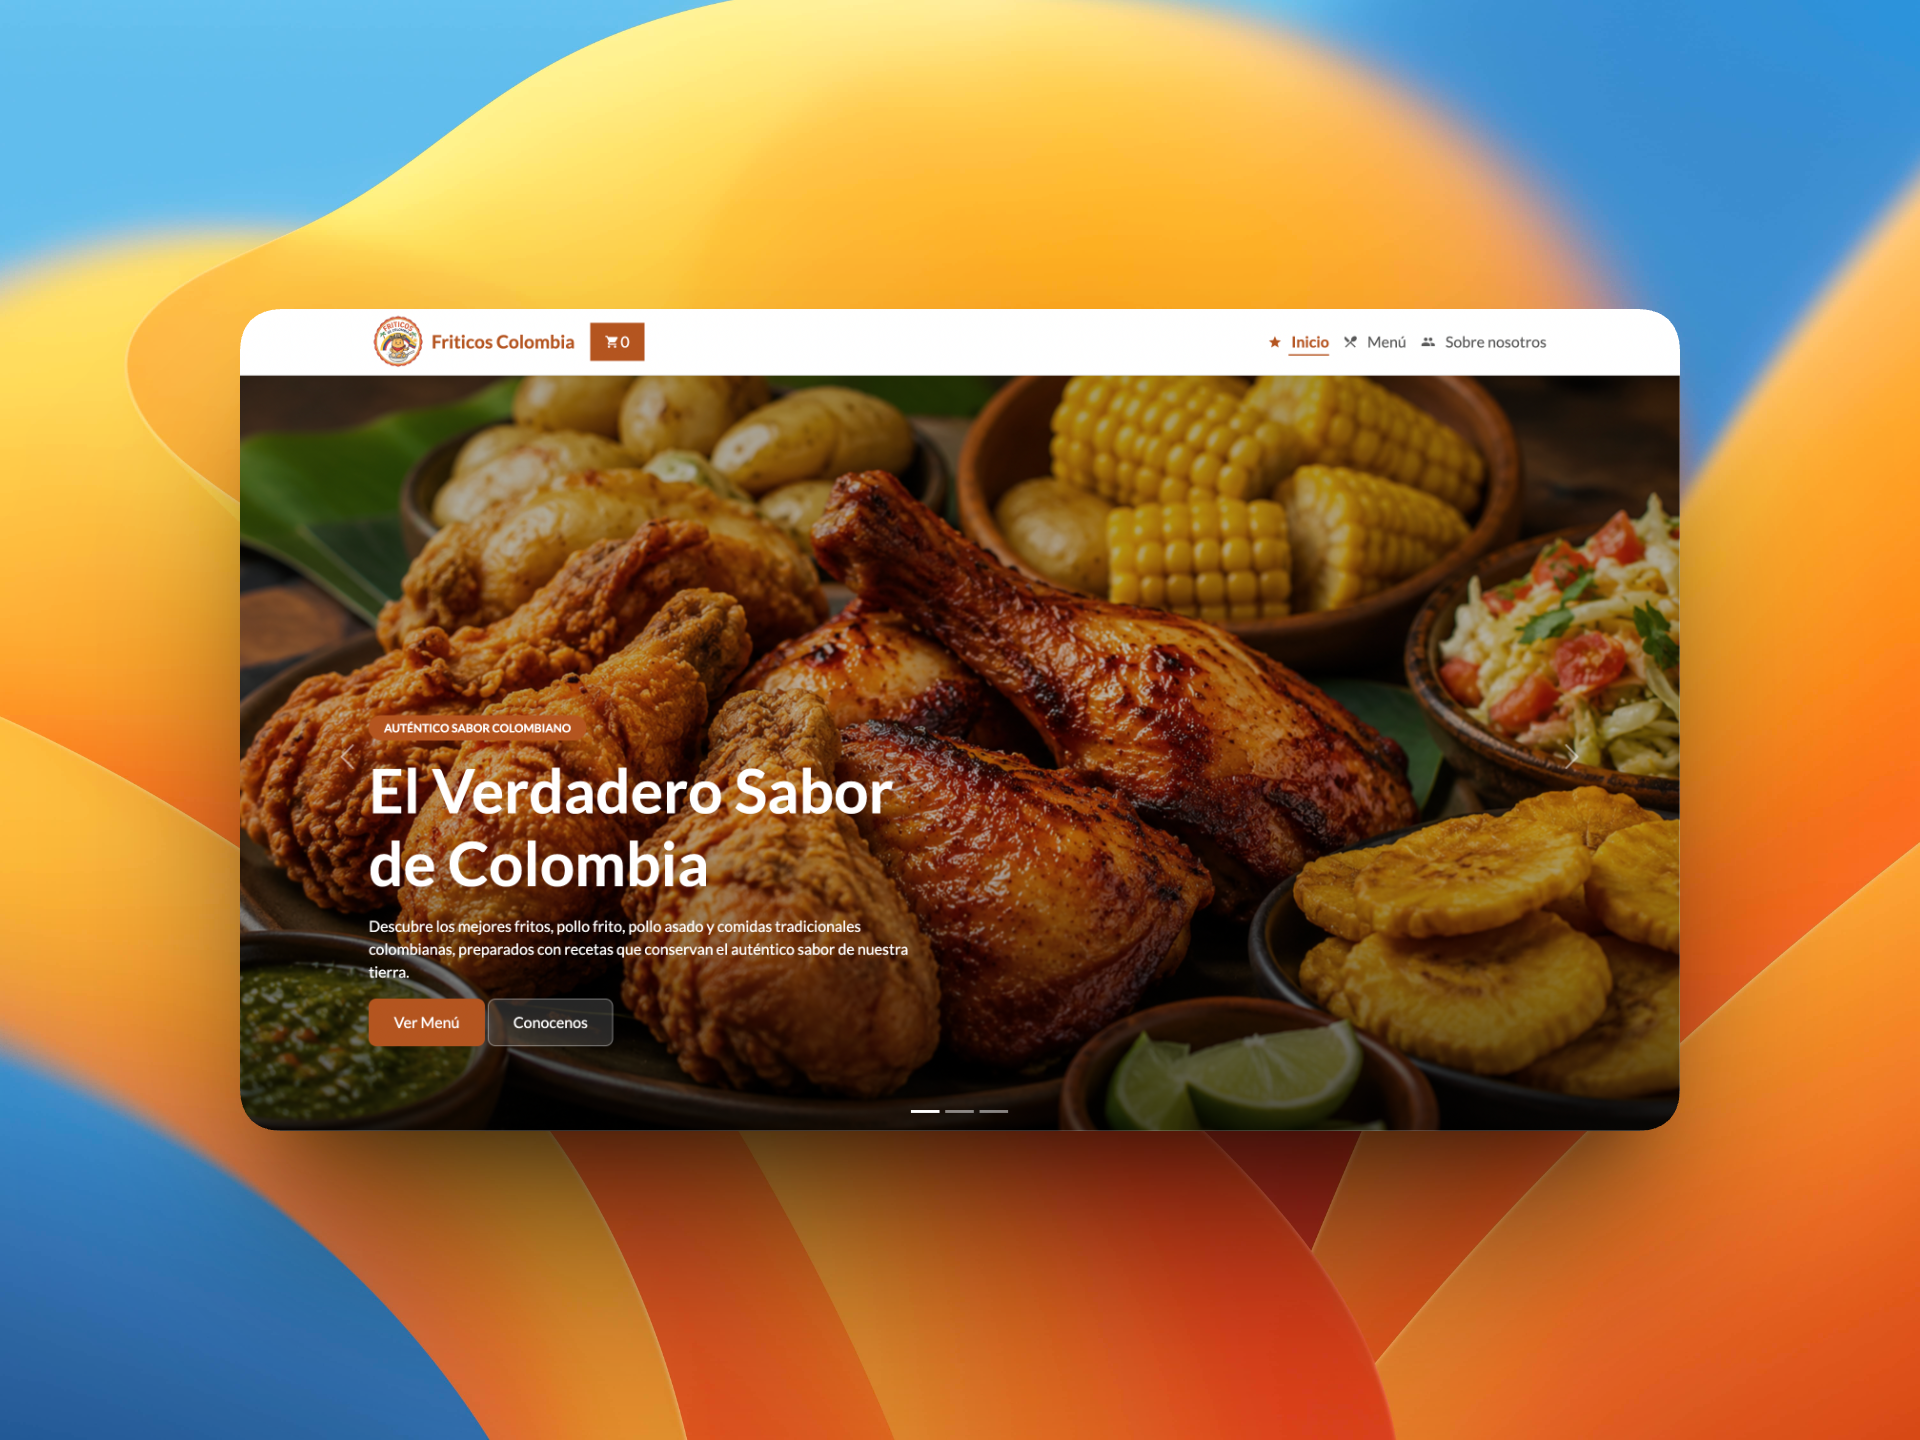
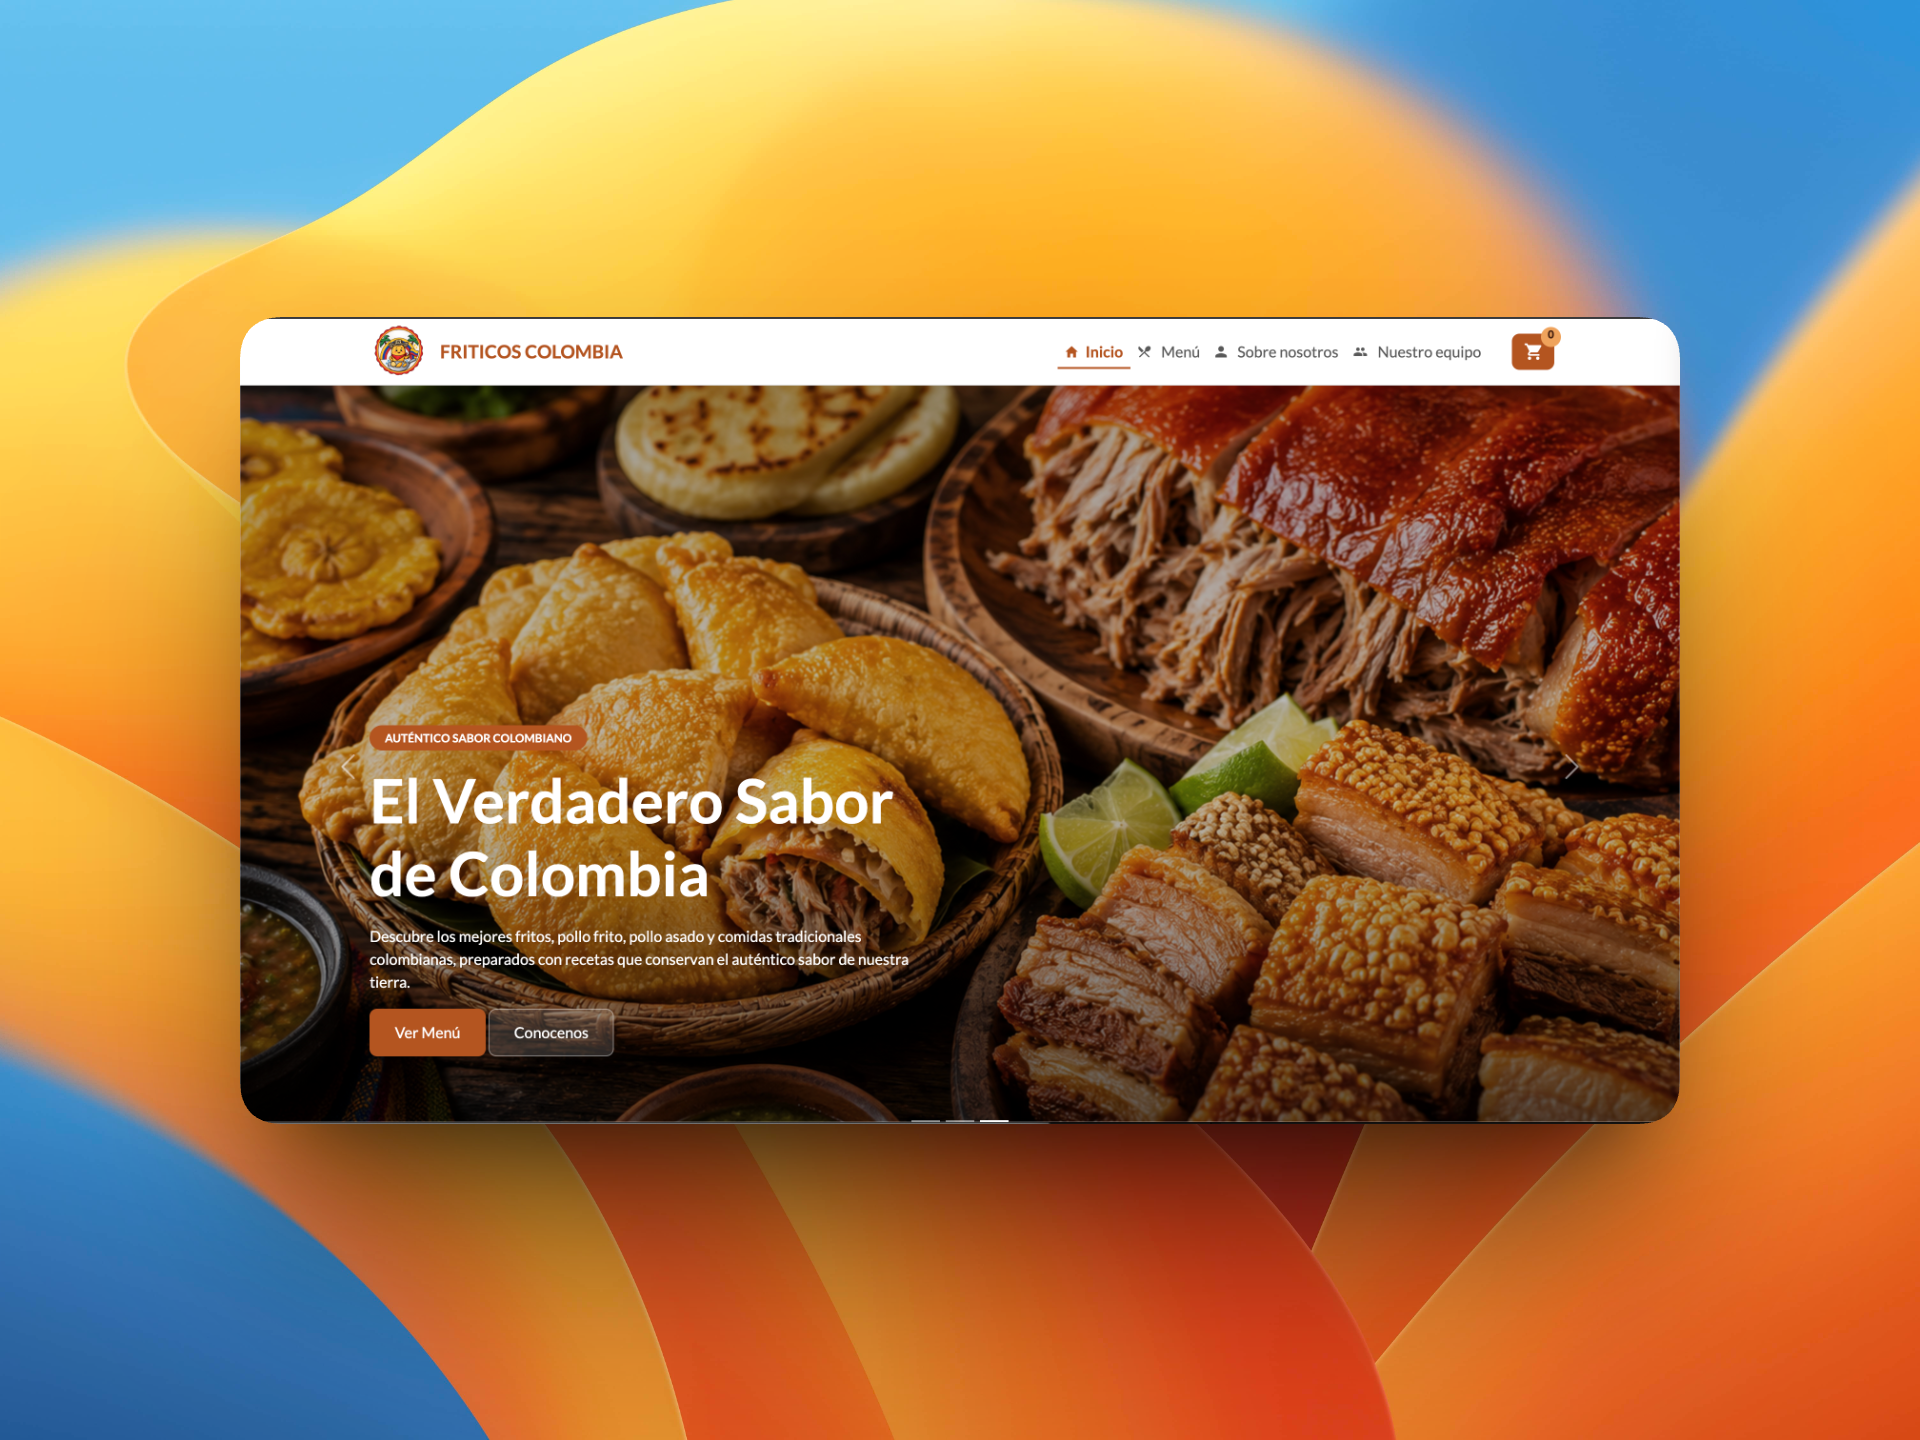
add enhancements

diff --git a/src/sections/About/About.tsx b/src/sections/About/About.tsx
@@ -1,0 +1,54 @@
+import { motion } from 'framer-motion'
+import { useTranslation } from 'react-i18next'
+import profileImage from '@/assets/img/profile.png'
+
+export const About = () => {
+  const { t } = useTranslation()
+
+  return (
+    <section
+      id='sobre-mi'
+      className='col-span-full rounded-lg py-15 dark:bg-red-900/40'
+    >
+      <motion.div
+        className='mx-auto grid max-w-7xl grid-cols-1 items-center gap-12 px-4 sm:px-6 lg:grid-cols-2 lg:gap-16 lg:px-8'
+        initial={{ opacity: 0, y: 24 }}
+        whileInView={{ opacity: 1, y: 0 }}
+        viewport={{ once: false, amount: 0.15 }}
+        transition={{ duration: 0.6, ease: [0.22, 1, 0.36, 1] }}
+      >
+        <div className='relative mx-auto w-full max-w-120 lg:mx-0 lg:-translate-x-2 lg:-rotate-2'>
+          <div className='absolute -inset-5 rounded-4xl bg-violet-400/20 blur-3xl dark:bg-violet-600/20' />
+          <div className='relative overflow-hidden rounded-4xl border border-violet-200 bg-violet-50 p-3 shadow-xl shadow-violet-200/40 dark:border-violet-400/20 dark:bg-violet-950/30 dark:shadow-violet-950/40'>
+            <div className='relative aspect-5/6 overflow-hidden rounded-3xl bg-violet-100 dark:bg-violet-950/50'>
+              <img
+                src={profileImage}
+                alt={t('Retrato de Angelica García')}
+                className='h-full w-full object-cover object-center saturate-90 transition duration-700 hover:scale-105 hover:saturate-110'
+              />
+              <div className='pointer-events-none absolute inset-0 bg-linear-to-tr from-violet-950/35 via-transparent to-white/20' />
+              <div className='pointer-events-none absolute inset-4 rounded-2xl border border-white/40' />
+            </div>
+            <span className='absolute bottom-7 left-7 rounded-md bg-slate-950/85 px-3 py-1.5 font-mono text-xs text-violet-200 backdrop-blur-sm'>
+              {'< about-me />'}
+            </span>
+          </div>
+        </div>
+
+        <div className='flex flex-col gap-5 text-left'>
+          <div className='flex items-center gap-3 font-mono text-xs uppercase tracking-[0.2em] text-violet-500'>
+            <span className='h-px w-10 bg-violet-500' />
+            <span>{t('Conóceme')}</span>
+          </div>
+          <h2 className='text-3xl font-bold text-slate-900 dark:text-slate-100 sm:text-4xl'>{t('Sobre mí')}</h2>
+          <p className='max-w-xl text-base leading-relaxed text-slate-600 dark:text-slate-300'>
+            {t('Mi acercamiento a la tecnología no fue amor a primera vista: en el colegio llegué a odiar la clase de informática, hasta que un cambio de profesor me hizo ver la lógica detrás de las herramientas y ahí nació mi interés. Entré a Análisis y Desarrollo de Sistemas en el SENA sin saber programar, y terminé enamorándome de los algoritmos al descubrir el impacto real que la tecnología tiene en la vida de las personas —desde oportunidades laborales hasta reconectar con seres queridos. Eso me llevó a estudiar Ingeniería de Sistemas y luego a especializarme en frontend en el bootcamp de Laboratoria, donde aprendí a trabajar en equipo de verdad junto a personas de Perú, Argentina, Chile y México.')}
+          </p>
+          <p className='max-w-xl text-base leading-relaxed text-slate-600 dark:text-slate-300'>
+            {t('Esa base me abrió las puertas a mi primera experiencia profesional, donde participé en la migración de una plataforma SaaS de JavaScript puro a React. Tras casi tres años de aprendizaje intenso, tomé una pausa para recargar energía, y con el deseo de seguir creciendo, tuve la oportunidad de ingresar al bootcamp fullstack de Generation, donde hoy profundizo en backend para consolidar mi perfil fullstack. Lo que más disfruto del desarrollo es resolver problemas, darle estructura y sentido a un problema, y sobre todo saber que esa solución termina siendo útil para alguien más.')}
+          </p>
+        </div>
+      </motion.div>
+    </section>
+  )
+}

diff --git a/src/sections/Projects/Projects.tsx b/src/sections/Projects/Projects.tsx
@@ -2,6 +2,7 @@ import { ProjectCard, type ProjectItem } from '@/sections/Projects/components/Pr
 import friticosColombiaImage from '@/assets/img/friticos-colombia.png'
 import youtubeCloneImage from '@/assets/img/youtube-clone.png'
 import inventarioPosImage from '@/assets/img/inventario-pos.png'
+import kairos from '@/assets/img/kairos.png'
 import reserveOneImage from '@/assets/img/reserve-one.png'
 import { motion } from 'framer-motion'
 import { useTranslation } from 'react-i18next'
@@ -12,17 +13,17 @@ export const Projects = () => {
   const projects: ProjectItem[] = [
     {
       title: 'Friticos Colombia',
-      description: t('Landing page desarrollada en 8 horas durante una hackathon, enfocada en conversión rápida y presentación de un negocio de comida típica colombiana.'),
+      description: t('Landing page desarrollada en 8 horas durante hackathon, enfocada en conversión rápida para negocio de comida típica colombiana.'),
       image: friticosColombiaImage,
       category: t('Hackathon'),
       tags: ['HTML', 'CSS', 'JavaScript', 'Bootstrap'],
       githubUrl: 'https://github.com/YessBlack/Hackaton1_FriticosColombia',
-      liveUrl: 'https://yessblack.github.io/Hackaton1_FriticosColombia/',
+      liveUrl: 'https://hackaton1-friticos-colombia.vercel.app/',
       featured: true
     },
     {
       title: 'YouTube Clone',
-      description: t('Recreación de la interfaz de YouTube enfocada en frontend, donde trabajé la estructura visual de la plataforma, la organización del diseño y la creación de una interfaz moderna y responsive.'),
+      description: t('Recreación de la interfaz de YouTube enfocada en frontend, trabajando la estructura visual, organización del diseño y una interfaz moderna y responsive.'),
       image: youtubeCloneImage,
       category: t('Clon / Práctica'),
       tags: ['HTML', 'CSS', 'JavaScript'],
@@ -39,7 +40,7 @@ export const Projects = () => {
     },
     {
       title: 'Reserve One',
-      description: t('Sistema de reserva de clases para el Club Deportivo Lan Hua, escuela de artes marciales chinas en Medellín especializada en Kung Fu tradicional (Mizong Luohan) y Wushu competitivo. Frontend en HTML, CSS y JavaScript, con backend en Java y Spring Boot.'),
+      description: t('Sistema de reservas para Club Lan Hua, escuela de artes marciales chinas en Medellín, cubriendo gestión de horarios, clases y usuarios.'),
       image: reserveOneImage,
       category: t('En desarrollo'),
       tags: ['HTML', 'CSS', 'JavaScript', 'Bootstrap', 'Java', 'Spring Boot'],
@@ -47,8 +48,8 @@ export const Projects = () => {
     },
     {
       title: 'Kairos App',
-      description: t('MVP de gestión de tareas con landing page, autenticación de usuarios, dashboard personal y configuración de perfil. Permite crear, organizar y eliminar tareas para llevar un seguimiento claro del día a día. Frontend en HTML, CSS y JavaScript, con backend en Java y Spring Boot.'),
-      image: inventarioPosImage,
+      description: t('MVP de gestión de tareas con landing page, autenticación, dashboard y perfil de usuario, permitiendo crear, organizar y eliminar tareas.'),
+      image: kairos,
       category: t('En desarrollo'),
       tags: ['HTML', 'CSS', 'JavaScript', 'Bootstrap', 'Java', 'Spring Boot'],
       githubUrl: 'https://github.com/YessBlack/Kairos-Planner'

diff --git a/src/sections/Experience/components/useExperience.tsx b/src/sections/Experience/components/useExperience.tsx
@@ -1,0 +1,92 @@
+import type { TimelineItem } from '@/sections/Experience/components/TimelineCard/types'
+import { useEffect, useRef, useState } from 'react'
+import { useTranslation } from 'react-i18next'
+
+export const useExperience = () => {
+  const { t } = useTranslation()
+
+  const containerRef = useRef<HTMLDivElement>(null)
+  const spineFillRef = useRef<HTMLDivElement>(null)
+  const rowRefs = useRef<(HTMLLIElement | null)[]>([])
+
+  const [typedLength, setTypedLength] = useState(0)
+
+  useEffect(() => {
+    if (typedLength >= EYEBROW_TEXT.length) return
+    const timeout = setTimeout(() => setTypedLength((l) => l + 1), 35)
+    return () => clearTimeout(timeout)
+  }, [typedLength])
+
+  useEffect(() => {
+    const updateSpine = () => {
+      const container = containerRef.current
+      const fill = spineFillRef.current
+      if (!container || !fill) return
+
+      const rect = container.getBoundingClientRect()
+      const viewportH = window.innerHeight
+
+      const start = viewportH * 0.85
+      const total = rect.height + viewportH * 0.7
+      const progressed = start - rect.top
+
+      const pct = Math.max(0, Math.min(100, (progressed / total) * 100))
+      fill.style.height = `${pct}%`
+    }
+
+    let ticking = false
+
+    const onScroll = () => {
+      if (!ticking) {
+        requestAnimationFrame(() => {
+          updateSpine()
+          ticking = false
+        })
+        ticking = true
+      }
+    }
+
+    window.addEventListener('scroll', onScroll)
+    updateSpine()
+
+    return () => window.removeEventListener('scroll', onScroll)
+  }, [])
+
+  const EYEBROW_TEXT = 'git log --graph --oneline --career'
+
+  const items: TimelineItem[] = [
+    {
+      date: t('Jun 2023 — Feb 2026 | 2 años 9 meses'),
+      role: t('Desarrollador Junior II'),
+      company: 'Giobs SAS BIC',
+      desc: t('Modernicé una plataforma SaaS migrándola a React, optimizando procesos de desarrollo/despliegue y coordinando con clientes y QA.'),
+      hash: '#f2a91c',
+      head: true
+    },
+    {
+      date: t('Abr 2018 — Jul 2018 | 4 meses'),
+      role: t('Auxiliar de TI'),
+      company: t('Departamento Administrativo Nacional de Estadística - DANE'),
+      desc: t('Lideré el equipo de informática en el Censo Nacional de Población y Vivienda 2018, configurando y supervisando la recolección y transmisión de información.'),
+      hash: '#7e2b90'
+    },
+    {
+      date: t('Feb 2017 — Ago 2017 | 7 meses'),
+      role: t('Técnica informática'),
+      company: t('Colegio Julio Perez Ferrero'),
+      desc: t('Realicé práctica en mantenimiento de equipos de cómputo, resolviendo problemas técnicos, elaborando informes e inventarios, y apoyando el aula TIC.'),
+      hash: '#3c8d15'
+    }
+  ]
+
+  return {
+    containerRef,
+    spineFillRef,
+    rowRefs,
+    typedLength,
+    setTypedLength,
+    EYEBROW_TEXT,
+    items
+  }
+
+}

diff --git a/src/sections/Experience/components/Experiencetimeline.tsx b/src/sections/Experience/components/Experiencetimeline.tsx
@@ -1,54 +1,17 @@
-import { EYEBROW_TEXT, items } from '@/sections/Experience/components/constants'
+import { useExperience } from '@/sections/Experience/components/useExperience'
 import { TimelineCard } from '@/sections/Experience/components/TimelineCard/TimelineCard'
-import { useEffect, useRef, useState } from 'react'
 import { motion } from 'framer-motion'
 
 export const ExperienceTimeline = () => {
-  const containerRef = useRef<HTMLDivElement>(null)
-  const spineFillRef = useRef<HTMLDivElement>(null)
-  const rowRefs = useRef<(HTMLLIElement | null)[]>([])
-
-  const [typedLength, setTypedLength] = useState(0)
-
-  useEffect(() => {
-    if (typedLength >= EYEBROW_TEXT.length) return
-    const timeout = setTimeout(() => setTypedLength((l) => l + 1), 35)
-    return () => clearTimeout(timeout)
-  }, [typedLength])
-
-  useEffect(() => {
-    const updateSpine = () => {
-      const container = containerRef.current
-      const fill = spineFillRef.current
-      if (!container || !fill) return
-
-      const rect = container.getBoundingClientRect()
-      const viewportH = window.innerHeight
-
-      const start = viewportH * 0.85
-      const total = rect.height + viewportH * 0.7
-      const progressed = start - rect.top
-
-      const pct = Math.max(0, Math.min(100, (progressed / total) * 100))
-      fill.style.height = `${pct}%`
-    }
-
-    let ticking = false
-    const onScroll = () => {
-      if (!ticking) {
-        requestAnimationFrame(() => {
-          updateSpine()
-          ticking = false
-        })
-        ticking = true
-      }
-    }
-
-    window.addEventListener('scroll', onScroll)
-    updateSpine()
-
-    return () => window.removeEventListener('scroll', onScroll)
-  }, [])
+  const {
+    containerRef,
+    spineFillRef,
+    rowRefs,
+    typedLength,
+    setTypedLength,
+    EYEBROW_TEXT,
+    items
+  } = useExperience()
 
   return (
     <div ref={containerRef} className='relative m-auto'>

diff --git a/src/sections/Hero/Hero.tsx b/src/sections/Hero/Hero.tsx
@@ -1,14 +1,16 @@
 import { Button } from '@/components/ui/Button'
-import profileImage from '@/assets/img/hero.svg'
+import profileImage from '@/assets/img/hero1.png'
 import { EXTERNAL_LINKS } from '@/data/links'
 import { Download, FolderOpen } from 'lucide-react'
 import { Link as ScrollLink } from 'react-scroll'
 import { motion } from 'framer-motion'
 import { floatingIcons } from '@/sections/Hero/constants'
 import { useTranslation } from 'react-i18next'
+import { useState } from 'react'
 
 export const Hero = () => {
   const { t } = useTranslation()
+  const [isProfileImageLoaded, setIsProfileImageLoaded] = useState(false)
 
   const orbitIcons = [...floatingIcons, ...floatingIcons].slice(0, 8)
 
@@ -117,14 +119,21 @@ export const Hero = () => {
           <div className='absolute inset-0 z-10 rounded-3xl bg-violet-50/80' />
 
           <div className='absolute inset-0 z-30 flex items-center justify-center'>
+            {!isProfileImageLoaded && (
+              <div
+                aria-hidden='true'
+                className='absolute h-100 w-80 animate-pulse rounded-[45%] bg-violet-200/70 blur-sm dark:bg-violet-900/50'
+              />
+            )}
             <img
-              className='w-80 object-cover'
+              className={`w-80 object-cover transition-opacity duration-500 ${isProfileImageLoaded ? 'opacity-100' : 'opacity-0'}`}
               style={{
                 maskImage: 'radial-gradient(circle at center, black 60%, transparent 95%)',
                 WebkitMaskImage: 'radial-gradient(circle at center, black 60%, transparent 95%)'
               }}
               src={profileImage}
               alt='Profile'
+              onLoad={() => setIsProfileImageLoaded(true)}
             />
           </div>
         </div>

diff --git a/src/components/ui/Logo.tsx b/src/components/ui/Logo.tsx
@@ -9,10 +9,15 @@ export const Logo = () => {
       offset={-80}
       className='flex cursor-pointer items-center gap-2'
     >
-      <span className='flex h-7 w-7 items-center justify-center rounded-full bg-black p-1 font-bold text-white'>
-        ys
+      <span
+        className='flex items-center gap-2 text-base tracking-normal text-slate-800 dark:text-slate-100'
+        aria-label='ys terminal yessblack.dev'
+      >
+        <span className='flex h-7 w-7 items-center justify-center rounded-full bg-black p-1 font-bold text-white'>
+          ys
+        </span>
+        <span className='font-semibold'> yessblack<span className='text-violet-600 dark:text-violet-400'>.dev</span></span>
       </span>
-      <span className='font-bold'>yessblack.dev</span>
     </ScrollLink>
   )
 }

diff --git a/src/pages/HomePage.tsx b/src/pages/HomePage.tsx
@@ -2,11 +2,13 @@ import { Hero } from '@/sections/Hero/Hero'
 import { Experience } from '@/sections/Experience/Experience'
 import { Projects } from '@/sections/Projects/Projects'
 import { Contact } from '@/sections/Contact/Contact'
+import { About } from '@/sections/About/About'
 
 export const HomePage = () => {
   return (
     <>
       <Hero />
+      <About />
       <Experience />
       <Projects />
       <Contact />

diff --git a/src/data/links.ts b/src/data/links.ts
@@ -1,5 +1,5 @@
 export const EXTERNAL_LINKS = {
-  cv: 'https://drive.google.com/file/d/1lI0SC5t53nvCSdnrlyeA45sUJU_SyJHp/view?usp=sharing',
+  cv: 'https://drive.google.com/file/d/17UNt6YwgBO3emGCsZesIHsgZfNYp8OTm/view?usp=sharing',
   github: 'https://github.com/YessBlack',
   linkedin: 'https://www.linkedin.com/in/angelica-yessenia-garcia-osorio/'
 }

diff --git a/src/components/ui/Nav.tsx b/src/components/ui/Nav.tsx
@@ -13,6 +13,7 @@ export const Nav = () => {
 
   const links = [
     { label: t('Inicio'), to: 'inicio' },
+    { label: t('Sobre mí'), to: 'sobre-mi' },
     { label: t('Experiencia'), to: 'experiencia' },
     { label: t('Proyectos'), to: 'proyectos' },
     { label: t('Contacto'), to: 'contacto' }

diff --git a/src/sections/Contact/components/ContactForm.tsx b/src/sections/Contact/components/ContactForm.tsx
@@ -148,7 +148,7 @@ export const ContactForm = () => {
 
       <Button
         disabled={!isCompleted || isSubmitting}
-        label={t('Ver Proyectos')}
+        label={t('Enviar mensaje')}
         variant='primary'
         icon={<Send size={16} />}
         type='submit'
